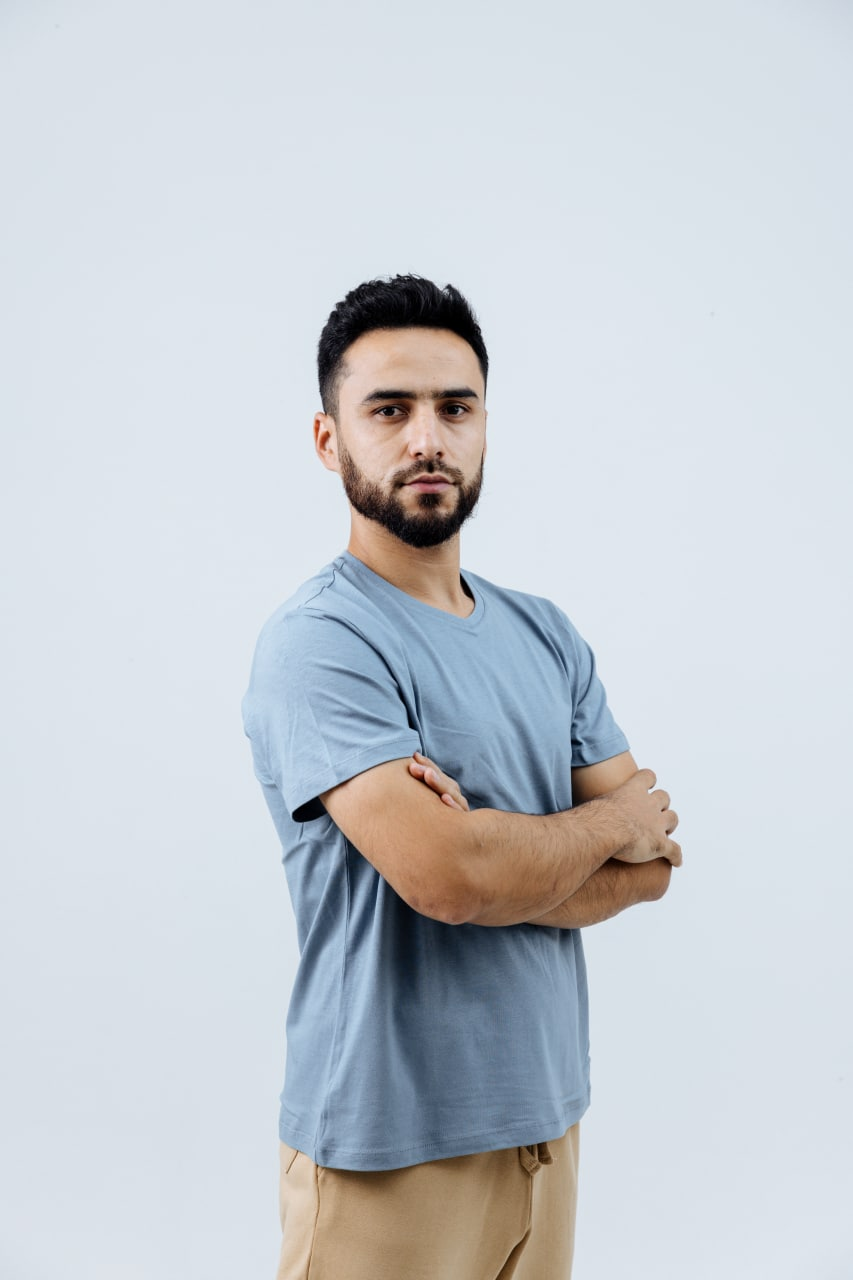
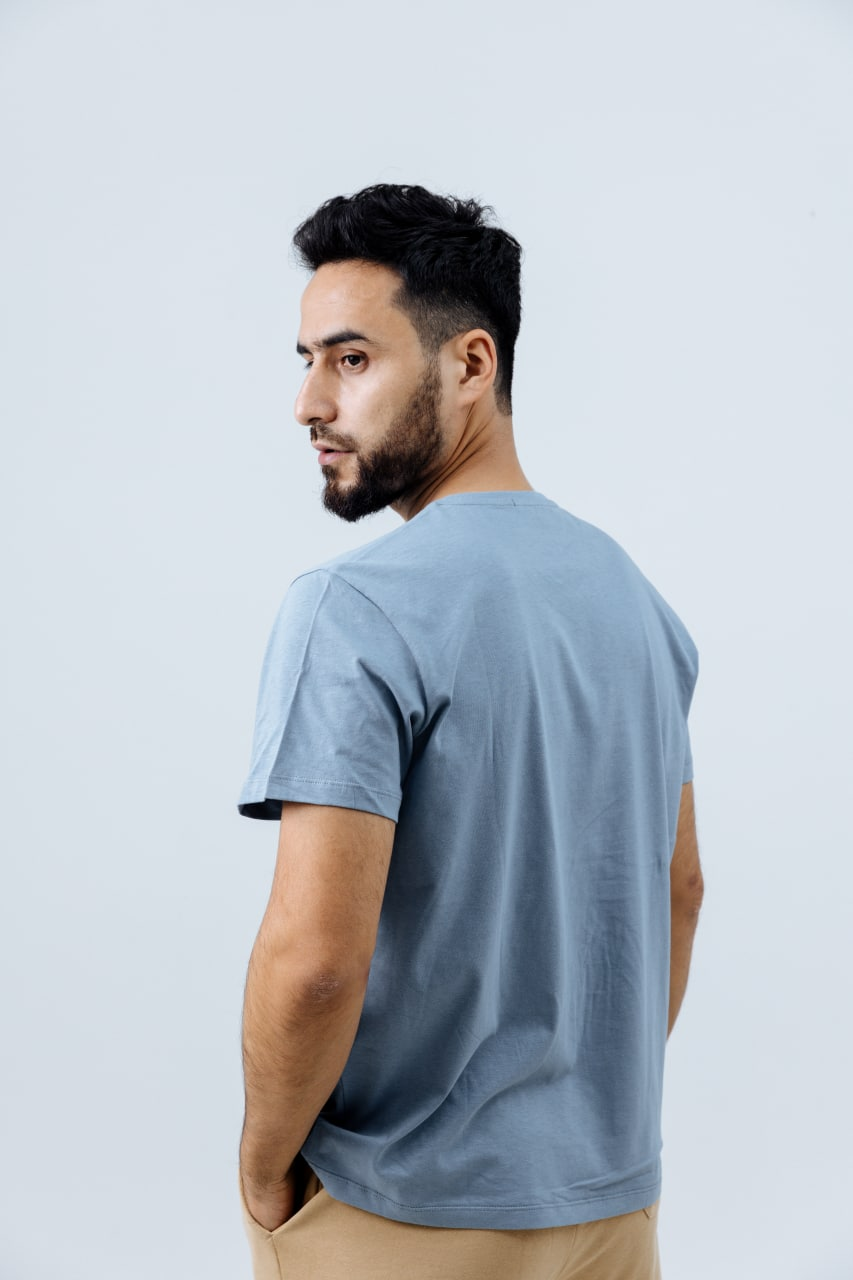
fix the order and names of images

Changed region(s): [[0.2743, 0.125, 0.823, 1.0]]

diff --git a/public/assets/products/man/index.ts b/public/assets/products/man/index.ts
@@ -31,9 +31,9 @@ import manGreenZippedHoodie04 from './man-green-zipped-hoodie-04.jpg';
 import manGreyPoloshirt01 from './man-grey-poloshirt-01.jpg';
 import manGreyPoloshirt02 from './man-grey-poloshirt-02.jpg';
 import manGreyPoloshirt03 from './man-grey-poloshirt-03.jpg';
-import manGreyTshirt01 from './man-grey-tshirt-01.jpg';
-import manGreyTshirt02 from './man-grey-tshirt-02.jpg';
-import manGreyTshirt03 from './man-grey-tshirt-03.jpg';
+import manSlateTshirt01 from './man-slate-tshirt-01.jpg';
+import manSlateTshirt02 from './man-slate-tshirt-02.jpg';
+import manSlateTshirt03 from './man-slate-tshirt-03.jpg';
 import manWhiteTshirt01 from './man-white-tshirt-01.jpg';
 import manWhiteTshirt02 from './man-white-tshirt-02.jpg';
 import manWhiteTshirt03 from './man-white-tshirt-03.jpg';
@@ -75,9 +75,9 @@ export {
   manGreyPoloshirt01,
   manGreyPoloshirt02,
   manGreyPoloshirt03,
-  manGreyTshirt01,
-  manGreyTshirt02,
-  manGreyTshirt03,
+  manSlateTshirt01,
+  manSlateTshirt02,
+  manSlateTshirt03,
   manWhiteTshirt01,
   manWhiteTshirt02,
   manWhiteTshirt03,

diff --git a/lib/constants.ts b/lib/constants.ts
@@ -86,8 +86,9 @@ import {
   manGreyPoloshirt01,
   manGreyPoloshirt02,
   manGreyPoloshirt03,
-  manGreyTshirt01,
-  manGreyTshirt03,
+  manSlateTshirt01,
+  manSlateTshirt02,
+  manSlateTshirt03,
   manWhiteTshirt01,
   manWhiteTshirt02,
   manWhiteTshirt03,
@@ -449,9 +450,9 @@ export const productsMan: Array<ProductType> = [
   },
   {
     title: 'T-shirt',
-    color: 'Grey',
+    color: 'Slate',
     material: 'Cotton',
-    images: [manGreyTshirt01, manGreenTshirt02, manGreyTshirt03],
+    images: [manSlateTshirt01, manSlateTshirt02, manSlateTshirt03],
     canBeCustomized: true,
   },
   {
